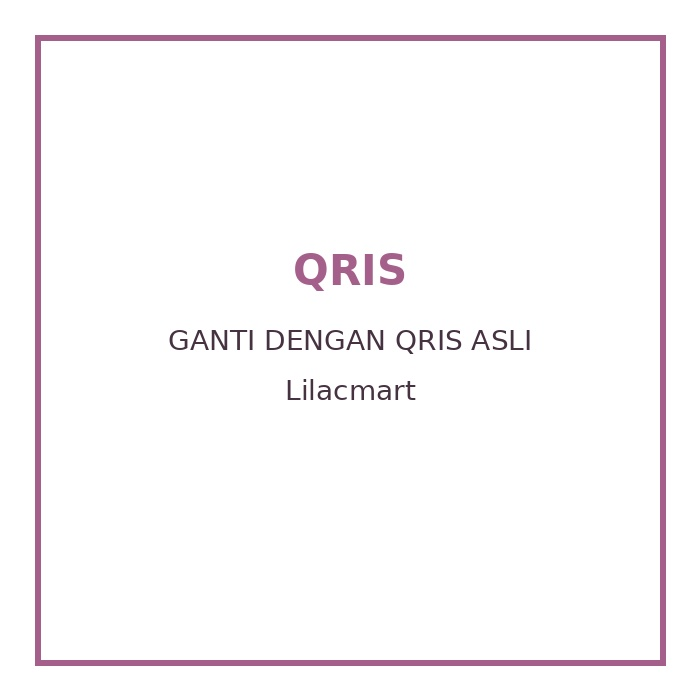
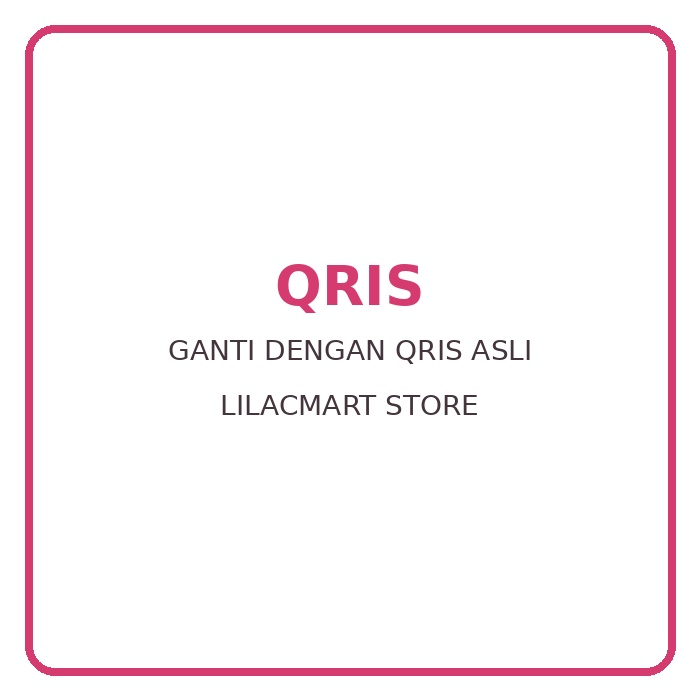
Add files via upload

Changed region(s): [[0.03, 0.03, 0.99, 0.99], [0.24, 0.36, 0.75, 0.6]]

diff --git a/aplikasi.js b/aplikasi.js
@@ -1,85 +1,48 @@
-const products = [
-  {id:1,name:"Produk Lilac 1",price:15000,emoji:"🎀"},
-  {id:2,name:"Produk Lilac 2",price:25000,emoji:"🛍"},
-  {id:3,name:"Produk Lilac 3",price:35000,emoji:"💜"},
-  {id:4,name:"Produk Lilac 4",price:50000,emoji:"🎁"}
-];
-
-let cart = JSON.parse(localStorage.getItem("lilacmart_cart") || "[]");
-let currentOrder = null;
-
-const rupiah = n => new Intl.NumberFormat("id-ID",{style:"currency",currency:"IDR",maximumFractionDigits:0}).format(n);
-
-function renderProducts(){
-  const grid=document.getElementById("productGrid");
-  grid.innerHTML=products.map(p=>`
-    <article class="product">
-      <div class="emoji">${p.emoji}</div>
-      <h3>${p.name}</h3>
-      <div class="price">${rupiah(p.price)}</div>
-      <button class="primary" onclick="addToCart(${p.id})">Tambah</button>
-    </article>`).join("");
-}
-function addToCart(id){
-  const item=cart.find(x=>x.id===id);
-  if(item)item.qty++;
-  else cart.push({id,qty:1});
-  saveCart(); renderCart(); updateCount();
-}
-function saveCart(){localStorage.setItem("lilacmart_cart",JSON.stringify(cart))}
-function updateCount(){document.getElementById("cartCount").textContent=cart.reduce((s,x)=>s+x.qty,0)}
-function total(){
-  return cart.reduce((s,x)=>{const p=products.find(p=>p.id===x.id);return s+p.price*x.qty},0);
-}
-function renderCart(){
-  const box=document.getElementById("cartItems");
-  if(!cart.length){box.innerHTML="<p>Keranjang masih kosong.</p>";}
-  else box.innerHTML=cart.map(x=>{
-    const p=products.find(p=>p.id===x.id);
-    return `<div class="cart-row"><span>${p.name}<br>${rupiah(p.price)} × ${x.qty}</span>
-      <span class="qty"><button onclick="changeQty(${p.id},-1)">−</button>
-      <button onclick="changeQty(${p.id},1)">+</button></span></div>`;
-  }).join("");
-  document.getElementById("cartTotal").textContent=rupiah(total());
-}
-function changeQty(id,d){
-  const x=cart.find(x=>x.id===id); if(!x)return;
-  x.qty+=d;if(x.qty<=0)cart=cart.filter(x=>x.id!==id);
-  saveCart();renderCart();updateCount();
-}
-function openModal(id){document.getElementById(id).classList.remove("hidden")}
-function closeModals(){document.querySelectorAll(".modal").forEach(x=>x.classList.add("hidden"))}
-
-document.getElementById("cartBtn").onclick=()=>{renderCart();openModal("cartModal")};
-document.getElementById("checkoutBtn").onclick=()=>{
-  if(!cart.length)return alert("Keranjang masih kosong.");
-  closeModals();openModal("checkoutModal");
-};
-document.querySelectorAll("[data-close]").forEach(b=>b.onclick=closeModals);
-
-document.getElementById("orderForm").onsubmit=e=>{
-  e.preventDefault();
-  currentOrder={
-    id:"LM-"+Date.now(),
-    name:document.getElementById("customerName").value.trim(),
-    phone:document.getElementById("customerPhone").value.trim(),
-    address:document.getElementById("customerAddress").value.trim(),
-    items:cart.map(x=>({...x})),
-    total:total(),
-    createdAt:new Date().toISOString(),
-    status:"Menunggu pembayaran"
-  };
-  document.getElementById("paymentTotal").textContent=rupiah(currentOrder.total);
-  closeModals();openModal("paymentModal");
-};
-
-document.getElementById("confirmPaymentBtn").onclick=async()=>{
-  if(!currentOrder)return;
-  currentOrder.status="Pembayaran dikonfirmasi oleh pelanggan";
-  await saveOrder(currentOrder);
-  document.getElementById("orderMessage").textContent=
-    `Nomor pesanan: ${currentOrder.id}. Simpan nomor ini untuk pengecekan pesanan.`;
-  cart=[];saveCart();updateCount();closeModals();openModal("successModal");
-};
-
-renderProducts();renderCart();updateCount();
+const initialProducts=[
+{id:1,name:"YouTube Premium",cat:"Langganan",price:12000,variants:3,icon:"▶"},
+{id:2,name:"Viu Premium",cat:"Streaming",price:10000,variants:6,icon:"◉"},
+{id:3,name:"HboMax Premium",cat:"Streaming",price:20000,variants:2,icon:"HBO"},
+{id:4,name:"LokLok Premium",cat:"Streaming",price:26000,variants:3,icon:"🎬"},
+{id:5,name:"Netflix Premium",cat:"Streaming",price:28500,variants:3,icon:"N"},
+{id:6,name:"Disney+ Premium",cat:"Streaming",price:27000,variants:3,icon:"✦"},
+{id:7,name:"Canva Premium",cat:"Editing",price:10000,variants:4,icon:"Canva"},
+{id:8,name:"Meitu+ Premium",cat:"Editing",price:20000,variants:3,icon:"M"},
+{id:9,name:"Wink+ Premium",cat:"Editing",price:20000,variants:3,icon:"✦"},
+{id:10,name:"Picsart Premium",cat:"Editing",price:15000,variants:4,icon:"P"},
+{id:11,name:"iQIYI Premium",cat:"Streaming",price:23000,variants:3,icon:"iQ"},
+{id:12,name:"Spotify Premium",cat:"Music",price:15000,variants:3,icon:"♫"},
+{id:13,name:"CapCut Pro",cat:"Editing",price:18000,variants:3,icon:"✂"},
+{id:14,name:"Vidio Platinum",cat:"Streaming",price:22000,variants:3,icon:"V"},
+{id:15,name:"ChatGPT Plus",cat:"Other",price:25000,variants:2,icon:"AI"},
+{id:16,name:"YouTube Music",cat:"Music",price:17000,variants:2,icon:"♫"},
+{id:17,name:"Prime Video",cat:"Streaming",price:23000,variants:3,icon:"▶"},
+{id:18,name:"Alight Motion",cat:"Editing",price:18000,variants:3,icon:"A"},
+{id:19,name:"Filmora",cat:"Editing",price:20000,variants:3,icon:"F"},
+{id:20,name:"Disney+ Hotstar",cat:"Streaming",price:27000,variants:3,icon:"✦"},
+{id:21,name:"Claude Pro",cat:"Other",price:30000,variants:2,icon:"AI"},
+{id:22,name:"Gemini Advanced",cat:"Other",price:28000,variants:2,icon:"✦"},
+{id:23,name:"Tidal Premium",cat:"Music",price:18000,variants:3,icon:"♫"},
+{id:24,name:"Mobile Legends",cat:"game",price:20000,variants:4,icon:"🎮"},
+{id:25,name:"Canva Pro Lifetime",cat:"Editing",price:30000,variants:2,icon:"Canva"}];
+let products=JSON.parse(localStorage.getItem("lm_products")||"null")||initialProducts;
+let cart=JSON.parse(localStorage.getItem("lm_cart")||"[]"), category="Semua", pending=null;
+const money=n=>new Intl.NumberFormat("id-ID",{style:"currency",currency:"IDR",maximumFractionDigits:0}).format(n);
+const save=()=>{localStorage.setItem("lm_products",JSON.stringify(products));localStorage.setItem("lm_cart",JSON.stringify(cart))};
+function renderCats(){let cats=["Semua","Langganan","Streaming","Editing","Music","Other","game"];categories.innerHTML=cats.map(c=>`<button class="${c===category?"active":""}" onclick="setCat('${c}')">✦ ${c}</button>`).join("")}
+function setCat(c){category=c;renderCats();renderProducts()}
+function renderProducts(){let q=(search.value||"").toLowerCase();let list=products.filter(p=>(category==="Semua"||p.cat===category)&&p.name.toLowerCase().includes(q));productGrid.innerHTML=list.map(p=>`<article class="card"><span class="tag">▣ ${p.cat}</span><button class="heart">♥</button><div class="logo"><div class="logo-icon">${p.icon}</div></div><h3>${p.name}</h3><div class="price">Mulai ${money(p.price)}</div><div class="available">Tersedia (${p.variants} varian)</div><button class="buy" onclick="add(${p.id})">Beli Sekarang　✦</button></article>`).join("");activeCount.textContent=products.length;readyCount.textContent=`(${products.length} produk ready)`}
+function add(id){let x=cart.find(i=>i.id===id);x?x.qty++:cart.push({id,qty:1});save();renderCart();open("cartModal")}
+function renderCart(){let n=cart.reduce((s,i)=>s+i.qty,0);cartCount.textContent=n;cartCount2.textContent=n;cartItems.innerHTML=cart.length?cart.map(i=>{let p=products.find(x=>x.id===i.id);return `<div class="cartrow"><span>${p.name}<br><b>${money(p.price*i.qty)}</b></span><span class="qty"><button onclick="qty(${p.id},-1)">−</button> ${i.qty} <button onclick="qty(${p.id},1)">+</button></span></div>`}).join(""):"<p>Keranjang masih kosong.</p>";cartTotal.textContent=money(cart.reduce((s,i)=>s+products.find(p=>p.id===i.id).price*i.qty,0))}
+function qty(id,d){let x=cart.find(i=>i.id===id);x.qty+=d;if(x.qty<1)cart=cart.filter(i=>i.id!==id);save();renderCart()}
+function open(id){document.getElementById(id).classList.remove("hidden")}function closeAll(){document.querySelectorAll(".modal").forEach(x=>x.classList.add("hidden"))}
+document.querySelectorAll("[data-close]").forEach(b=>b.onclick=closeAll);openCart.onclick=openCart2.onclick=()=>{renderCart();open("cartModal")};checkout.onclick=()=>{if(!cart.length)return alert("Keranjang masih kosong.");closeAll();open("checkoutModal")};
+search.oninput=renderProducts;
+document.querySelectorAll("[data-scroll]").forEach(b=>b.onclick=()=>document.getElementById(b.dataset.scroll).scrollIntoView());
+checkoutForm.onsubmit=e=>{e.preventDefault();let total=cart.reduce((s,i)=>s+products.find(p=>p.id===i.id).price*i.qty,0);pending={id:"LM"+Date.now().toString().slice(-8),name:name.value,phone:phone.value,note:note.value,total};payTotal.textContent=money(total);closeAll();open("paymentModal")};
+paid.onclick=async()=>{await saveOrder(pending);orderResult.textContent=`Nomor pesanan ${pending.id}. Silakan simpan nomor ini untuk konfirmasi melalui WhatsApp.`;cart=[];save();renderCart();closeAll();open("successModal")};
+async function saveOrder(o){let orders=JSON.parse(localStorage.getItem("lm_orders")||"[]");orders.push({...o,time:new Date().toISOString()});localStorage.setItem("lm_orders",JSON.stringify(orders));if(window.LilacDB)await window.LilacDB.save(o)}
+function renderAdmin(){adminProducts.innerHTML=products.map(p=>`<div class="adminrow"><b>${p.name}</b> — ${money(p.price)} <button onclick="delProduct(${p.id})">hapus</button></div>`).join("")}
+function delProduct(id){products=products.filter(p=>p.id!==id);save();renderProducts();renderAdmin()}
+resetProducts.onclick=()=>{products=initialProducts;save();renderProducts();renderAdmin()}
+document.addEventListener("keydown",e=>{if(e.ctrlKey&&e.shiftKey&&e.key.toLowerCase()==="a"){open("adminModal");renderAdmin()}});
+renderCats();renderProducts();renderCart();if(new URLSearchParams(location.search).get("admin")==="1"){open("adminModal");renderAdmin()}

diff --git a/style.css b/style.css
@@ -1,1 +1,1 @@
-*{box-sizing:border-box}html{scroll-behavior:smooth}body{margin:0;font-family:Arial,sans-serif;background:#fff7fb;color:#3f3040}.topbar{position:sticky;top:0;z-index:10;background:#fff;display:flex;justify-content:space-between;align-items:center;padding:14px 5%;box-shadow:0 2px 12px #00000012}.brand{font-size:24px;font-weight:800;color:#a55f8b}.cart-btn,.primary{border:0;border-radius:12px;padding:12px 18px;cursor:pointer;font-weight:700}.cart-btn{background:#f4e2ed;color:#87466e}.cart-btn span{background:#a55f8b;color:white;border-radius:99px;padding:2px 7px;margin-left:4px}.hero{margin:20px auto;max-width:1100px;min-height:330px;border-radius:28px;padding:55px 7%;display:flex;align-items:center;background:linear-gradient(135deg,#f0d5e4,#fff0f7)}.eyebrow{letter-spacing:3px;font-size:13px}.hero h1{font-size:54px;margin:5px 0 12px;color:#8f4c77}.hero p{font-size:18px;line-height:1.6}.primary{background:#a55f8b;color:white;text-decoration:none;display:inline-block;margin-top:10px}.section{max-width:1100px;margin:40px auto;padding:0 5%}.section h2{text-align:center}.product-grid{display:grid;grid-template-columns:repeat(auto-fit,minmax(190px,1fr));gap:18px}.product{background:white;border-radius:18px;padding:18px;box-shadow:0 5px 18px #00000010}.product .emoji{height:130px;border-radius:14px;background:#f8e8f1;display:grid;place-items:center;font-size:60px}.product h3{margin-bottom:5px}.price{font-weight:800;color:#a55f8b}.product button{width:100%;margin-top:10px}.modal{position:fixed;inset:0;background:#0008;display:grid;place-items:center;padding:20px;z-index:30}.hidden{display:none}.modal-card{position:relative;background:#fff;border-radius:20px;padding:25px;max-width:520px;width:100%;max-height:90vh;overflow:auto}.close{position:absolute;right:14px;top:10px;border:0;background:none;font-size:30px;cursor:pointer}.cart-row{display:flex;justify-content:space-between;gap:10px;border-bottom:1px solid #eee;padding:12px 0}.qty button{border:0;border-radius:7px;padding:5px 9px}.total{font-size:18px;padding:15px 0}.full{width:100%;margin-top:12px}label{display:block;margin:12px 0;font-weight:700}input,textarea{display:block;width:100%;margin-top:6px;border:1px solid #ddd;border-radius:10px;padding:12px;font:inherit}textarea{min-height:90px}.payment{text-align:center}.qris{width:min(300px,90%);display:block;margin:15px auto;border-radius:12px}.center{text-align:center}.success-icon{margin:auto;width:58px;height:58px;border-radius:50%;background:#b8759d;color:white;display:grid;place-items:center;font-size:30px}@media(max-width:600px){.hero{min-height:280px;padding:35px 8%}.hero h1{font-size:42px}.brand{font-size:21px}}
+*{box-sizing:border-box}html{scroll-behavior:smooth}body{margin:0;background:#fff8ed;color:#332631;font-family:Arial,Helvetica,sans-serif}.header{height:64px;background:#fff;display:flex;align-items:center;gap:22px;padding:8px 18px;border-bottom:1px solid #f1dce5;position:sticky;top:0;z-index:20}.brand{display:flex;align-items:center;gap:8px;min-width:260px}.brand-avatar{width:34px;height:34px;border-radius:50%;background:#ffe3ec;display:grid;place-items:center;border:1px solid #e5b2c5}.brand b{font-size:17px}.brand b span{color:#b72e61}.brand small{display:block;font-size:9px;color:#c64b77;font-weight:700}.header nav{display:flex;gap:5px;flex:1;justify-content:center}.header nav button,.cart-top{border:0;background:transparent;font-weight:700;color:#7c5264;padding:10px 13px;border-radius:20px;cursor:pointer}.header nav .nav-active{background:#d83d72;color:#fff;box-shadow:0 5px 13px #d83d7240}.cart-top{background:#d83d72;color:#fff;box-shadow:0 5px 13px #d83d7240}.cart-top b,.floating-cart b{background:#fff;color:#c52e61;border-radius:50%;padding:2px 7px;margin-left:4px}.searchbar{background:#fff;padding:10px 18px;border-bottom:1px solid #eedde3}.searchbar input{width:100%;border:1px solid #ead7bd;background:#fffaf0;border-radius:22px;padding:10px 16px 10px 35px;font-size:13px;outline:none}.searchbar span{position:absolute;margin:9px 0 0 13px;color:#8e6c79;font-size:20px}.hero{background:linear-gradient(100deg,#c92961,#ec7895);color:#fff;padding:30px 28px 24px}.hero-inner{max-width:1100px;margin:auto}.store-pill{display:inline-flex;align-items:center;gap:7px;background:#ffffff24;border:1px solid #ffffff55;border-radius:25px;padding:8px 13px}.store-pill span{background:#fff;border-radius:50%;padding:4px}.store-pill small{font-size:9px;background:#ffffff32;border-radius:9px;padding:3px}.hero-copy{font-size:12px;line-height:1.7;margin:13px 0}.badges{display:flex;gap:9px;flex-wrap:wrap}.badges span{background:#fff2;border:1px solid #fff3;border-radius:20px;padding:9px 14px;font-size:11px}.ticker{height:38px;background:#fff2d9;display:flex;justify-content:space-around;align-items:center;overflow:hidden;font-size:11px;font-weight:700;white-space:nowrap;color:#5e4a52}.container{max-width:1100px;margin:auto;padding:24px 18px 70px}.section-title{display:flex;justify-content:space-between;align-items:center}.section-title h2{font-size:20px;margin:0 0 16px}.section-title span{font-size:11px}.categories{display:flex;gap:8px;overflow:auto;padding-bottom:16px}.categories button{white-space:nowrap;border:1px solid #eee1d4;background:#fff;border-radius:22px;padding:10px 17px;box-shadow:0 2px 8px #0000000d;font-weight:700;color:#51434a}.categories button.active{background:#d7376d;color:#fff;border-color:#d7376d}.grid{display:grid;grid-template-columns:repeat(3,1fr);gap:18px}.card{background:#fff;border-radius:17px;padding:12px;box-shadow:0 4px 17px #8b6b6615;position:relative;border:1px solid #f0e5df}.tag{display:inline-block;color:#b43361;background:#fff1f5;border-radius:10px;padding:5px 8px;font-size:9px;font-weight:700}.heart{position:absolute;right:12px;top:12px;background:#fff8e9;border:0;border-radius:50%;width:28px;height:28px;color:#d36a87}.logo{height:98px;margin:5px 0;background:#faf4e9;border-radius:14px;display:grid;place-items:center}.logo-icon{width:50px;height:50px;border-radius:12px;display:grid;place-items:center;font-size:28px;background:#fff;box-shadow:0 4px 12px #00000010}.card h3{text-align:center;font-size:14px;margin:8px 0;color:#241c22}.price{text-align:center;color:#a92e5d;font-size:14px;font-weight:800}.available{text-align:center;color:#665960;font-size:11px;margin:8px 0}.buy{border:0;background:#d63b70;color:#fff;font-weight:800;border-radius:11px;padding:10px 12px;cursor:pointer;box-shadow:0 5px 10px #d63b7030}.card .buy{width:100%;font-size:11px}.floating-cart{position:fixed;right:18px;bottom:20px;background:#d63b70;color:#fff;border:0;border-radius:25px;padding:13px 18px;font-weight:800;box-shadow:0 7px 18px #d63b7050;z-index:25}.modal{position:fixed;inset:0;background:#0008;z-index:50;display:grid;place-items:center;padding:18px}.hidden{display:none}.sheet{position:relative;background:#fff;border-radius:20px;padding:22px;max-width:480px;width:100%;max-height:90vh;overflow:auto}.x{position:absolute;right:12px;top:8px;border:0;background:none;font-size:28px}.sheet h2{margin-top:0}.cartrow{display:flex;justify-content:space-between;border-bottom:1px solid #eee;padding:12px 0;font-size:13px}.qty button{border:0;background:#f8e5ed;border-radius:6px;padding:4px 8px}.grand{display:flex;justify-content:space-between;padding:17px 0;font-size:16px}.full{width:100%}label{display:block;font-weight:700;font-size:12px;margin:12px 0}label input{width:100%;margin-top:6px;padding:12px;border:1px solid #eadde1;border-radius:10px}.qris{display:block;width:min(280px,90%);margin:15px auto;border-radius:10px}.pay{text-align:center}.center{text-align:center}.check{margin:auto;width:55px;height:55px;background:#d63b70;color:#fff;border-radius:50%;display:grid;place-items:center;font-size:30px}.muted{color:#766872;font-size:12px}.adminrow{padding:10px 0;border-bottom:1px solid #eee;font-size:12px}.reviews,.help{text-align:center;padding:45px 20px;background:#fff}.help{background:#fff5f8}footer{text-align:center;padding:25px;color:#8d777f;font-size:11px}@media(max-width:700px){.header{gap:7px;padding:7px 12px;height:61px}.brand{min-width:auto}.brand b{font-size:15px}.header nav{display:none}.cart-top{margin-left:auto;font-size:11px;padding:9px}.grid{grid-template-columns:repeat(3,minmax(0,1fr));gap:10px}.container{padding:20px 14px 70px}.card{padding:8px;border-radius:14px}.logo{height:85px}.logo-icon{width:45px;height:45px}.card h3{font-size:11px;min-height:27px}.price{font-size:11px}.available{font-size:9px}.card .buy{font-size:9px;padding:9px 4px}.hero{padding:25px 18px 21px}.hero-copy{font-size:10px}.ticker{justify-content:flex-start;gap:28px;padding:0 12px}.section-title h2{font-size:18px}.section-title span{font-size:9px}.categories button{font-size:10px;padding:9px 13px}.floating-cart{right:14px;bottom:15px}.searchbar{padding:8px 14px}}

diff --git a/index.html b/index.html
@@ -1,85 +1,89 @@
 <!DOCTYPE html>
 <html lang="id">
 <head>
-  <meta charset="UTF-8">
-  <meta name="viewport" content="width=device-width, initial-scale=1.0">
-  <meta name="theme-color" content="#d9a6c0">
-  <title>Lilacmart - Auto Order</title>
-  <link rel="stylesheet" href="style.css">
+<meta charset="UTF-8">
+<meta name="viewport" content="width=device-width,initial-scale=1,maximum-scale=1">
+<meta name="theme-color" content="#d62f68">
+<title>Lilacmart Store — Official Marketplace</title>
+<link rel="stylesheet" href="style.css">
 </head>
 <body>
-  <header class="topbar">
-    <div class="brand">Lilacmart</div>
-    <button id="cartBtn" class="cart-btn">🛒 Keranjang <span id="cartCount">0</span></button>
-  </header>
-
-  <main>
-    <section class="hero">
-      <div>
-        <p class="eyebrow">WELCOME TO</p>
-        <h1>Lilacmart</h1>
-        <p>Belanja mudah, checkout cepat, pembayaran QRIS.</p>
-        <a href="#products" class="primary">Belanja Sekarang</a>
-      </div>
-    </section>
-
-    <section id="products" class="section">
-      <h2>Produk</h2>
-      <div id="productGrid" class="product-grid"></div>
-    </section>
-  </main>
-
-  <div id="cartModal" class="modal hidden">
-    <div class="modal-card">
-      <button class="close" data-close>×</button>
-      <h2>Keranjang</h2>
-      <div id="cartItems"></div>
-      <div class="total">Total: <strong id="cartTotal">Rp0</strong></div>
-      <button id="checkoutBtn" class="primary full">Checkout</button>
-    </div>
+<header class="header">
+  <div class="brand">
+    <div class="brand-avatar">👩🏻💻</div>
+    <div><b>Lilacmart <span>Store</span></b><small>✦ Official Marketplace</small></div>
   </div>
+  <nav>
+    <button class="nav-active" data-scroll="products">▦ Katalog</button>
+    <button data-scroll="reviews">★ Ulasan</button>
+    <button data-scroll="help">● Bantuan</button>
+  </nav>
+  <button class="cart-top" id="openCart">🛍 Keranjang <b id="cartCount">0</b></button>
+</header>
 
-  <div id="checkoutModal" class="modal hidden">
-    <div class="modal-card">
-      <button class="close" data-close>×</button>
-      <h2>Data Pesanan</h2>
-      <form id="orderForm">
-        <label>Nama
-          <input id="customerName" required>
-        </label>
-        <label>Nomor WhatsApp
-          <input id="customerPhone" type="tel" required>
-        </label>
-        <label>Alamat
-          <textarea id="customerAddress" required></textarea>
-        </label>
-        <button class="primary full" type="submit">Lanjut ke Pembayaran</button>
-      </form>
-    </div>
+<div class="searchbar">
+  <span>⌕</span><input id="search" placeholder="Cari aplikasi premium, streaming, AI, game...">
+</div>
+
+<section class="hero">
+  <div class="hero-inner">
+    <div class="store-pill"><span>👩🏻💻</span><b>Lilacmart Store</b><small>● Official Marketplace</small></div>
+    <p class="hero-copy">✦ ▤▤ Lilacmart  ♡✧ &nbsp; laman terpercaya dengan aplikasi premium berkualitas ✧✧ menyajikan pelayanan bintang lima ✧ ♡ &nbsp; welcome to ethereal page! ♡</p>
+    <div class="badges"><span>☁ &nbsp; <b id="activeCount">25</b> PRODUK AKTIF</span><span>✓ &nbsp; 100% GARANSI LAYANAN</span><span>ϟ &nbsp; Fast Response CS</span></div>
   </div>
+</section>
 
-  <div id="paymentModal" class="modal hidden">
-    <div class="modal-card payment">
-      <button class="close" data-close>×</button>
-      <h2>Pembayaran QRIS</h2>
-      <p>Scan QRIS berikut menggunakan aplikasi pembayaran kamu.</p>
-      <img src="qris.jpg" class="qris" alt="QRIS Lilacmart">
-      <p class="total">Total: <strong id="paymentTotal">Rp0</strong></p>
-      <button id="confirmPaymentBtn" class="primary full">Saya Sudah Bayar</button>
-    </div>
-  </div>
+<div class="ticker"><span>✦ Disney+ Hotstar</span><span>✦ Spotify Premium</span><span>✦ Canva Pro Lifetime</span><span>✦ YouTube Premium</span><span>✦ CapCut Pro</span><span>✦ Vidio Platinum</span></div>
 
-  <div id="successModal" class="modal hidden">
-    <div class="modal-card center">
-      <div class="success-icon">✓</div>
-      <h2>Pesanan berhasil dibuat</h2>
-      <p id="orderMessage"></p>
-      <button class="primary full" data-close>OK</button>
-    </div>
-  </div>
+<main id="products" class="container">
+  <div class="section-title"><h2>▰ Kategori Produk</h2><span id="readyCount">(25 produk ready)</span></div>
+  <div class="categories" id="categories"></div>
+  <div class="grid" id="productGrid"></div>
+</main>
 
-  <script src="supabase-config.js"></script>
-  <script src="online-db.js"></script>
-  <script src="aplikasi.js"></script>
+<section id="reviews" class="reviews"><h2>★ Ulasan Pelanggan</h2><p>Pelayanan cepat, produk sesuai, dan proses order mudah.</p></section>
+<section id="help" class="help"><h2>● Bantuan</h2><p>Jika ada kendala, hubungi CS melalui WhatsApp setelah checkout.</p></section>
+
+<button class="floating-cart" id="openCart2">🛍 Keranjang <b id="cartCount2">0</b></button>
+
+<div class="modal hidden" id="cartModal"><div class="sheet">
+  <button class="x" data-close>×</button><h2>Keranjang</h2><div id="cartItems"></div>
+  <div class="grand">Total <b id="cartTotal">Rp0</b></div>
+  <button class="buy full" id="checkout">Lanjut Checkout →</button>
+</div></div>
+
+<div class="modal hidden" id="checkoutModal"><div class="sheet">
+  <button class="x" data-close>×</button><h2>Data Pemesan</h2>
+  <form id="checkoutForm">
+    <label>Nama<input id="name" required placeholder="Nama lengkap"></label>
+    <label>WhatsApp<input id="phone" required placeholder="08xxxxxxxxxx"></label>
+    <label>Catatan / alamat<input id="note" placeholder="Catatan pesanan"></label>
+    <button class="buy full">Lanjut ke QRIS →</button>
+  </form>
+</div></div>
+
+<div class="modal hidden" id="paymentModal"><div class="sheet pay">
+  <button class="x" data-close>×</button><h2>Pembayaran QRIS</h2>
+  <p>Scan QRIS sesuai total pesanan.</p><img src="qris.jpg" class="qris" alt="QRIS">
+  <div class="grand">Total <b id="payTotal">Rp0</b></div>
+  <button class="buy full" id="paid">Saya Sudah Bayar →</button>
+</div></div>
+
+<div class="modal hidden" id="successModal"><div class="sheet center">
+  <div class="check">✓</div><h2>Pesanan diterima!</h2><p id="orderResult"></p>
+  <button class="buy full" data-close>Selesai</button>
+</div></div>
+
+<div class="modal hidden" id="adminModal"><div class="sheet">
+  <button class="x" data-close>×</button><h2>Admin Lilacmart</h2>
+  <p class="muted">Admin berada di dalam website ini. Data produk disimpan di browser.</p>
+  <div id="adminProducts"></div>
+  <button class="buy full" id="resetProducts">Kembalikan produk awal</button>
+</div></div>
+
+<footer>© 2026 Lilacmart Store · Official Marketplace</footer>
+<script src="supabase-config.js"></script>
+<script src="online-db.js"></script>
+<script src="aplikasi.js"></script>
 </body>
 </html>

diff --git a/online-db.js b/online-db.js
@@ -1,17 +1,8 @@
-// Penyimpanan pesanan.
-// Jika SUPABASE_CONFIG sudah diisi, fungsi ini dapat dihubungkan ke Supabase.
-// Untuk mode tanpa Supabase, pesanan tetap dibuat dan disimpan di browser.
-async function saveOrder(order) {
-  try {
-    localStorage.setItem("lilacmart_last_order", JSON.stringify(order));
-  } catch (e) {
-    console.warn("Pesanan tidak dapat disimpan di browser.", e);
-  }
-
-  if (typeof SUPABASE_CONFIG !== "undefined" &&
-      SUPABASE_CONFIG.url && SUPABASE_CONFIG.anonKey) {
-    // Integrasi Supabase dapat ditambahkan setelah tabel database dibuat.
-    // Sengaja tidak menggunakan service_role key di sisi client.
-  }
-  return { ok: true };
-}
+// Integrasi database opsional. Untuk keamanan, gunakan anon/public key saja.
+// Website tetap berfungsi dengan localStorage jika Supabase belum dikonfigurasi.
+window.LilacDB={save:async(order)=>{
+ const cfg=window.SUPABASE_CONFIG||{};
+ if(!cfg.url||!cfg.anonKey)return true;
+ // Endpoint/database dapat diaktifkan setelah tabel "orders" dibuat.
+ return true;
+}};

diff --git a/supabase-config.js b/supabase-config.js
@@ -1,6 +1,1 @@
-// Isi dengan kredensial Supabase milik kamu jika ingin menyimpan pesanan online.
-// Jangan masukkan service_role key di website publik.
-const SUPABASE_CONFIG = {
-  url: "",
-  anonKey: ""
-};
+window.SUPABASE_CONFIG={url:"",anonKey:""};
